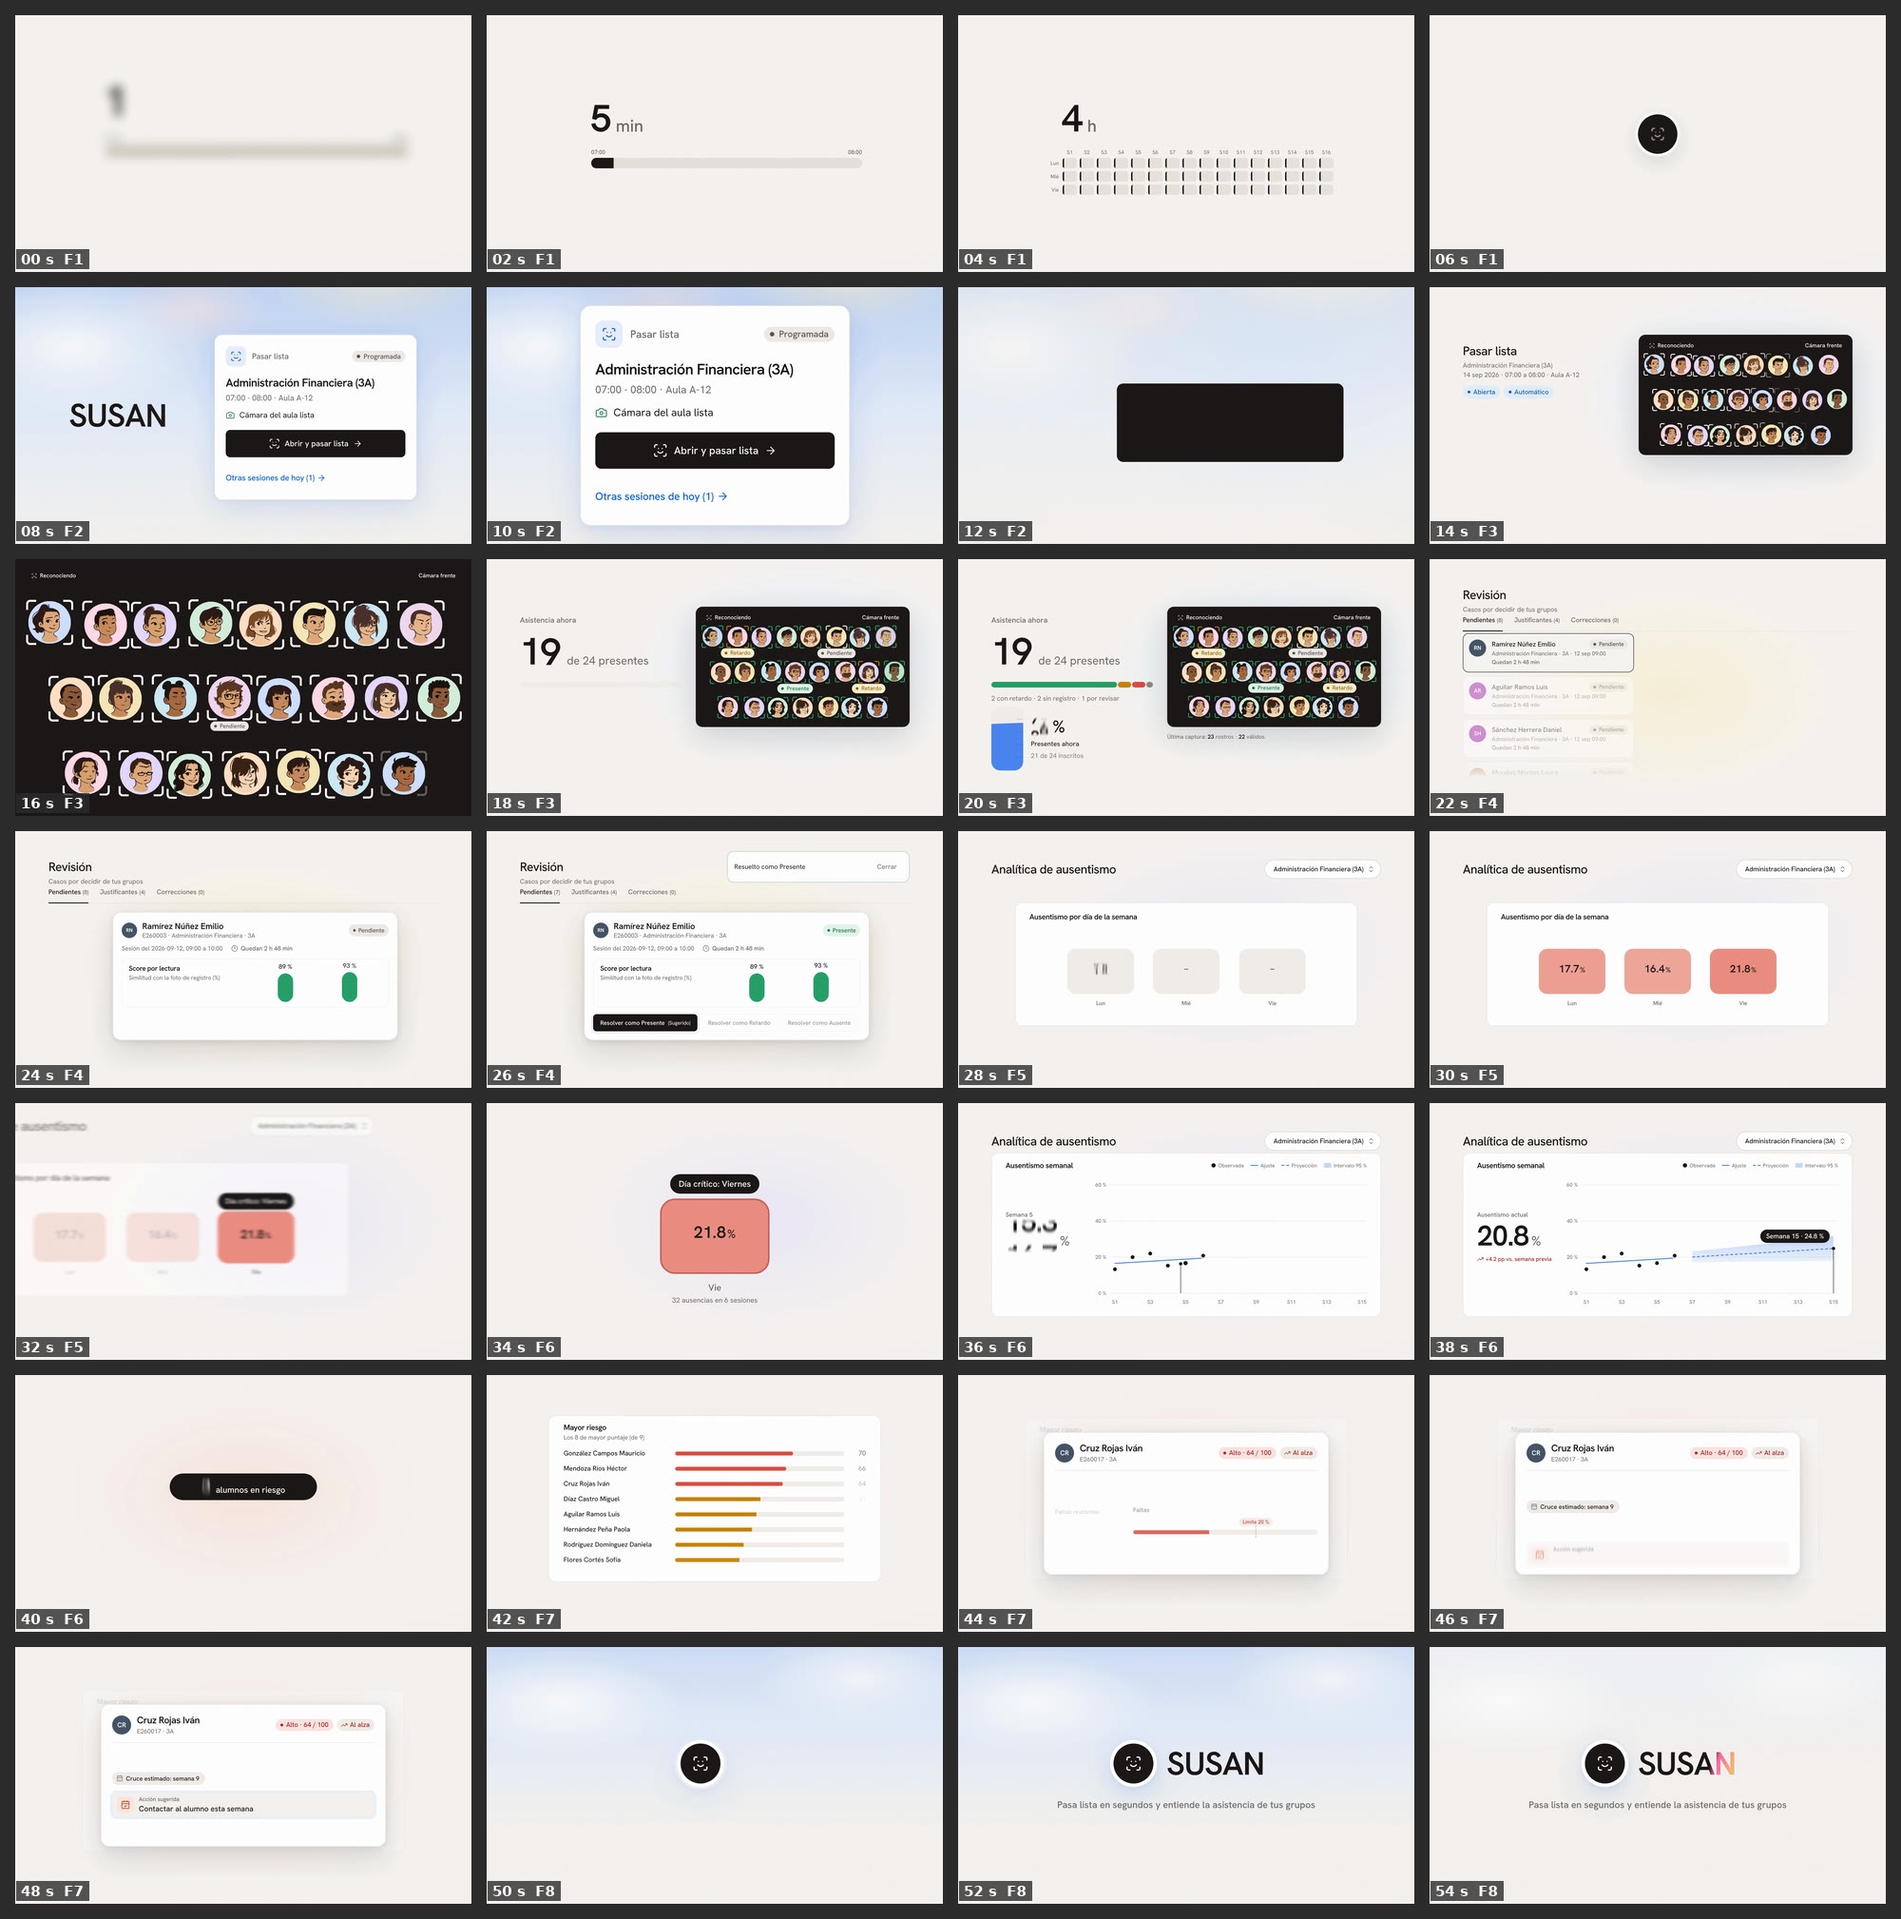
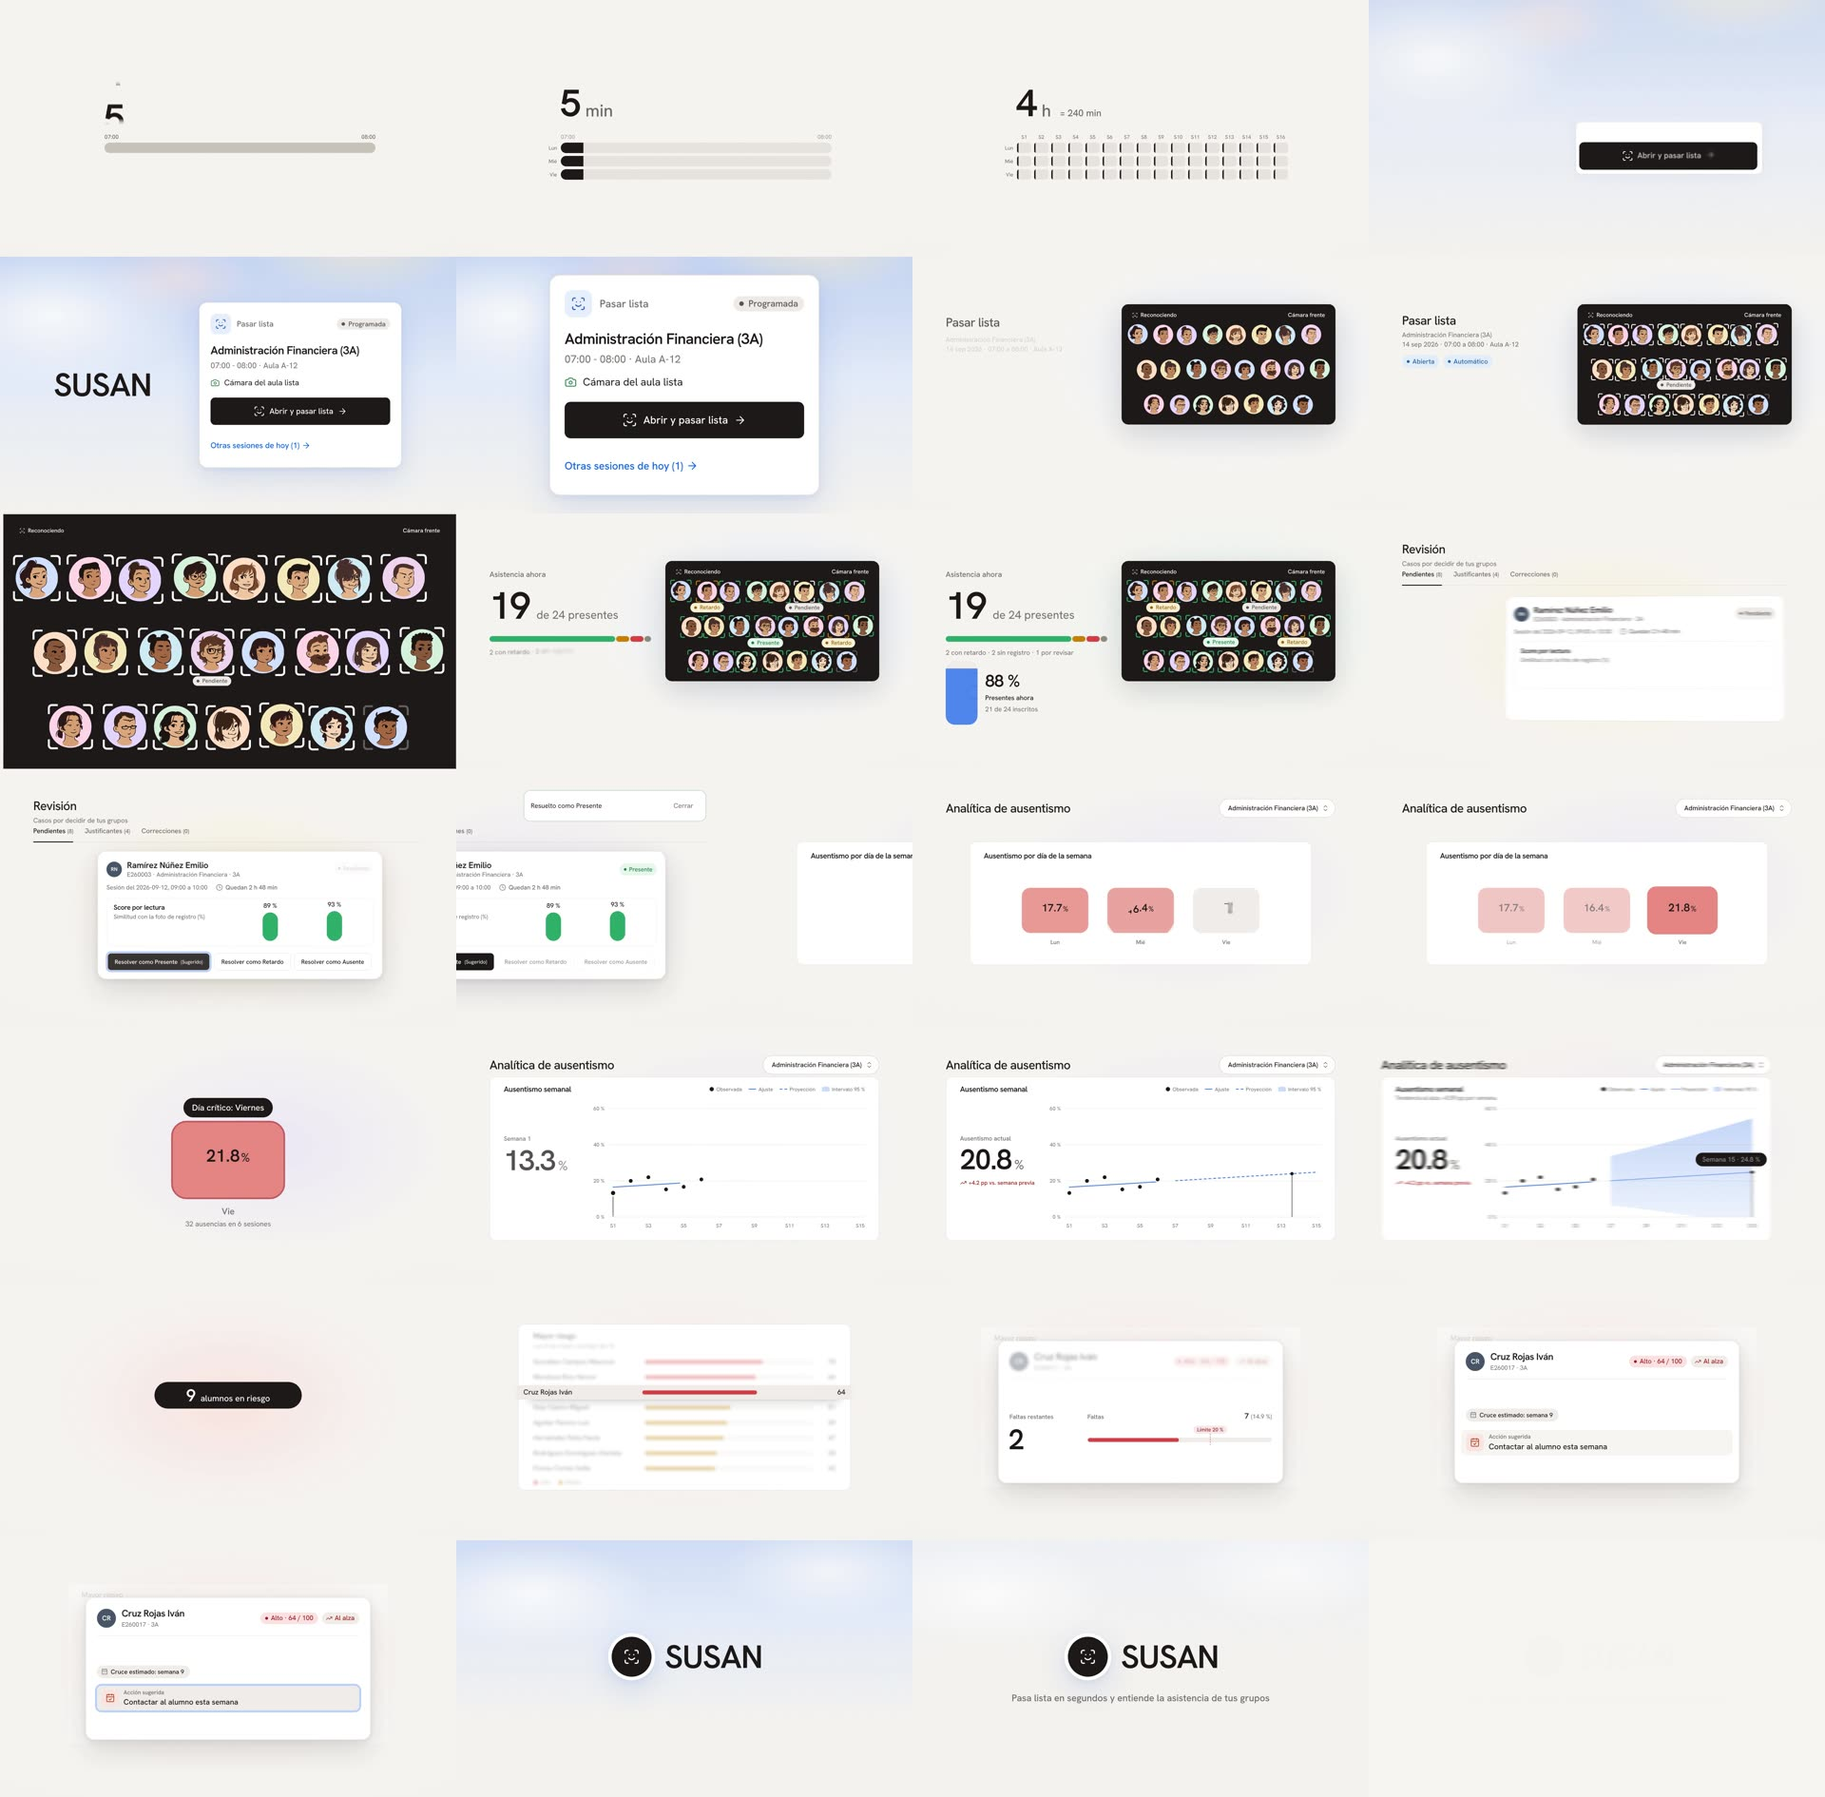
feat(video): v4 con voz sin contador de capturas en la cámara
Claude-Session: https://claude.ai/code/session_01GNm8ZQGo8vSP18qjgTWPYH

diff --git a/video/susan-v4/compositions/frames/s03-camara.html b/video/susan-v4/compositions/frames/s03-camara.html
@@ -80,8 +80,6 @@
 .s03-camara-seg{display:block;height:24px;border-radius:999px;flex:none}
 .s03-camara-detalle{position:absolute;left:140px;top:566px;font-size:28px;font-weight:400;line-height:40px;color:#6F6A65;white-space:nowrap;letter-spacing:0}
 .s03-camara-pal{display:inline-block}
-.s03-camara-ultima{position:absolute;left:880px;top:730px;font-size:24px;font-weight:400;line-height:36px;color:#6F6A65;white-space:nowrap;letter-spacing:0}
-.s03-camara-ultima b{font-weight:600;color:#1E1919}
 /* ---- MedidorLiquido real a E = 1.6: tanque 134 × 269, radio 38, vidrio #F0EDE8, líquido #4A86F0, 5 marcas ---- */
 .s03-camara-tanque{position:absolute;left:140px;top:620px;width:134px;height:269px;border-radius:38px;background:#F0EDE8;overflow:hidden}
 .s03-camara-liquido{position:absolute;inset:0;background:#4A86F0;clip-path:polygon(0 100%,100% 100%,100% 100%,0 100%)}
@@ -111,7 +109,6 @@
       <div id="s03-camara-enc-chips" class="s03-camara-enc-chips"><span class="s03-camara-chip-md">Abierta</span><span class="s03-camara-chip-md">Automático</span></div>
     </div>
     <!-- columna «Asistencia ahora» (assets/sesion-resumen-0-de-24.png): DEBAJO de la vista, que la revela al volver a su caja -->
-    <div id="s03-camara-ultima" class="s03-camara-ultima">Última captura: <b>23</b> rostros · <b>22</b> válidos</div>
     <div id="s03-camara-rotulo" class="s03-camara-rotulo">Asistencia ahora</div>
     <div id="s03-camara-cifra" class="s03-camara-cifra">
       <div id="s03-camara-fila19" class="s03-camara-fila">
@@ -427,7 +424,6 @@
         tl.fromTo(blurTxt, { t: 0 }, { t: 0.40, duration: 0.40, ease: 'none', onUpdate: aplicarBlur, immediateRender: false }, 6.40);
         // 6.85–7.25 s: bajo la cámara, la línea real de la última captura (rostros de la toma, no lecturas por alumno), ya asentado el
         // renglón de detalle y antes del medidor (7.30).
-        tl.fromTo($('ultima'), { y: 16, opacity: 0 }, { y: 0, opacity: 1, duration: 0.40, ease: 'power3.out' }, 6.85);
         /* ---------- Escena 4 (7.3–8.5 s): el medidor sube a 88 % y el halo pasa a verde ---------- */
         tl.fromTo($('tanque'), { y: 24, opacity: 0 }, { y: 0, opacity: 1, duration: 0.40, ease: 'power4.out' }, 7.30);
         tl.fromTo([$('pct'), $('med-et'), $('med-desc')], { y: 24, opacity: 0 }, { y: 0, opacity: 1, duration: 0.40, ease: 'power4.out', stagger: 0.06 }, 7.30);

diff --git a/video/susan-v4/STORYBOARD.md b/video/susan-v4/STORYBOARD.md
@@ -155,7 +155,7 @@ Scene 1 (0.0–1.3s): Corte invisible sobre el marco vacío (handoff_in). Entre 
 
 Scene 2 (1.3–4.9s): «La cámara del aula pasa lista por ti mientras das tu clase». Detección a 1.30 s: esquinas blancas de 4 px con radio 8 se traban en 22 rostros (escalonado 0.03 s, ≤ 0.3 s; todas trabadas a 1.90 s) y en el rostro 23, la visita, quedan al 30 %: sin marco válido y sin decirlo. Entre 1.60 y 1.90 s el rostro más centrado recibe bajo su marco el StatusChip sm «Pendiente» (y 8 → 0 y opacidad, power3.out): el estado de partida que la confirmación va a cambiar. La vista se abre (R3 b): entre 2.45 y 2.95 s la vista de cámara y su sombra crecen desde su caja hasta llenar el cuadro (transform-origin 0 0, x 0 → −880, y 0 → −200, scale 1 → 2.135, que cubre 1921.5 × 1080.3 px sin hilo crema abajo, expo.inOut; radio 28 → 0 por clip-path; la sombra se apaga; desenfoque de la vista ligado a la velocidad, ≤ 4 px en pantalla, solo de 2.61 a 2.79 s; un solo driver puro calcula la apertura y la vuelta); «Reconociendo» y «Cámara frente» no escalan: viajan con sus esquinas (margen 24 → 48 px), y el chip «Pendiente» va anclado bajo su rostro a tamaño nativo, con el mismo ease y tiempo. El encabezado no viaja: la vista va por encima de la columna (z) y, al crecer hacia la izquierda, lo tapa como una cortinilla (≈ 2.67–2.74 s); a 2.95, ya cubierto, `tl.set` autoAlpha 0. Un solo movimiento y una sola superficie con filtro (se lee de 0.95 a ≈ 2.63 s). De 2.95 a 4.40 s la clase llena el cuadro: rostros de 179 px con sus esquinas; entre 3.25 y 3.50 s las esquinas siguen a los rostros (laten una vez, 1 → 1.04 → 1: de 3.25 a 3.56 s, subida de 0.14 s con `power2.out` y vuelta de 0.17 s con `power2.inOut` desde 3.39 s, para que el latido no se sienta como un respingo seco a 2.135x) y entre 3.85 y 4.15 s el icono scan-face del chip «Reconociendo» late una vez (svg-icon-enrichment). Entre 4.40 y 4.90 s la vista vuelve a su caja con el mismo tween al revés, con su desenfoque ≤ 4 px solo de 4.56 a 4.74 s (termina exacta en x=880 y=200, 900 × 506, radio 28, con su sombra) y revela debajo la columna «Asistencia ahora» (Hanken 500, 32 px, #6F6A65), la cifra «0» (Hanken 600, 160 px, tabular-nums) con «de 24 presentes» (48 px gris) en la misma línea base y la pista vacía de la BarraSegmentada (x=140 y=516, 680 × 24 px, #F0EDE8), que entra desde la izquierda (x −60 → 0 y opacidad, power3.out, 4.55–5.00 s). En ningún momento aparece un contador de lecturas, de capturas o de muestras (BRIEF, 2026-10-06).
 
-Scene 3 (4.9–7.3s): «…y cada alumno queda presente». Confirmación sin número, en el hueco de la voz: entre 4.90 y 5.30 s una ola suave nace en el rostro central y se abre hacia los bordes; a su paso un velo verde (#27A06A al 25 %, opacidad 0 → 1 → 0 en 0.3 s por marco) cruza cada marco y sus esquinas cambian de color: verdes #27A06A en 19 rostros, ámbar #C98100 con StatusChip sm «Retardo» en 2, blancas con StatusChip sm «Pendiente» en 1 (cada estado con su etiqueta). Al arrancar la ola, entre 4.90 y 5.00 s, el chip del rostro central pasa de «Pendiente» a «Presente» (#1F7A47 sobre #E3F4EA: el nuevo entra encima por opacidad y el viejo se apaga, sin girar, como el chip de F2). Entre 5.05 y 5.65 s la cifra rueda de 0 a «19» (vertical-spring-ticker, dos columnas con estela vertical solo al girar, expo.out, un tic por columna: decenas asentadas a 5.61 s y unidades a 5.65 s), mientras la voz dice «cada alumno» (ancla «alumno» en 5.45 s); queda quieta desde 5.65 s. Entre 5.65 y 6.45 s, ya asentado el «19» y mientras la voz dice «queda presente» (ancla «presente» en 6.15 s), la BarraSegmentada real se llena por segmentos de izquierda a derecha (stat-bars-and-fills: Presentes 19 #27A06A, Retardos 2 #C98100, Pendientes 1 #8F8A82, Sin registro 2 #DE4D44, separación 4). Entre 6.40 y 6.80 s, ya asentada la barra, entra desde el desenfoque la línea real «2 con retardo · 2 sin registro · 1 por revisar» (Hanken 400, 28 px, #6F6A65, x=140 y=566; el último segmento de la barra ya está al 99.99 % a 6.40 s, así que no se encima). Entre 6.85 y 7.25 s, bajo la cámara, entra «Última captura: 23 rostros · 22 válidos» (24 px gris, x=880 y=730): cuenta los rostros de la toma, no lecturas por alumno. Cada pieza entra sola, una tras otra, con ≈ 0.4 s propios (barra, línea de detalle, «Última captura» y medidor). Ningún tramo quieto llega a 1.0 s (el más largo, de 8.3 a 8.5 s, 0.2 s).
+Scene 3 (4.9–7.3s): «…y cada alumno queda presente». Confirmación sin número, en el hueco de la voz: entre 4.90 y 5.30 s una ola suave nace en el rostro central y se abre hacia los bordes; a su paso un velo verde (#27A06A al 25 %, opacidad 0 → 1 → 0 en 0.3 s por marco) cruza cada marco y sus esquinas cambian de color: verdes #27A06A en 19 rostros, ámbar #C98100 con StatusChip sm «Retardo» en 2, blancas con StatusChip sm «Pendiente» en 1 (cada estado con su etiqueta). Al arrancar la ola, entre 4.90 y 5.00 s, el chip del rostro central pasa de «Pendiente» a «Presente» (#1F7A47 sobre #E3F4EA: el nuevo entra encima por opacidad y el viejo se apaga, sin girar, como el chip de F2). Entre 5.05 y 5.65 s la cifra rueda de 0 a «19» (vertical-spring-ticker, dos columnas con estela vertical solo al girar, expo.out, un tic por columna: decenas asentadas a 5.61 s y unidades a 5.65 s), mientras la voz dice «cada alumno» (ancla «alumno» en 5.45 s); queda quieta desde 5.65 s. Entre 5.65 y 6.45 s, ya asentado el «19» y mientras la voz dice «queda presente» (ancla «presente» en 6.15 s), la BarraSegmentada real se llena por segmentos de izquierda a derecha (stat-bars-and-fills: Presentes 19 #27A06A, Retardos 2 #C98100, Pendientes 1 #8F8A82, Sin registro 2 #DE4D44, separación 4). Entre 6.40 y 6.80 s, ya asentada la barra, entra desde el desenfoque la línea real «2 con retardo · 2 sin registro · 1 por revisar» (Hanken 400, 28 px, #6F6A65, x=140 y=566; el último segmento de la barra ya está al 99.99 % a 6.40 s, así que no se encima). (Retirada por la persona dueña, 2026-10-06: la línea «Última captura: 23 rostros · 22 válidos» ya no aparece; ningún contador de capturas en pantalla.) Cada pieza entra sola, una tras otra, con ≈ 0.4 s propios (barra, línea de detalle y medidor). Ningún tramo quieto llega a 1.0 s (el más largo, de 8.3 a 8.5 s, 0.2 s).
 
 Scene 4 (7.3–8.5s): Después de «presente»: entre 7.30 y 7.85 s el MedidorLiquido real a E = 1.6 (tanque de 134 × 269 px, radio 38, vidrio #F0EDE8, líquido #4A86F0, 5 marcas; borde izquierdo x=140, tope y=620) sube a 88 % con `power3.out` sin rebasarlo (física de `frame.md` §5.7: `nivel` monótono que se asienta en la marca sin sobreimpulso y `desnivel` de la superficie que se apaga solo) mientras «88 %» (Hanken 600, 72 px) rueda a su derecha entre «Presentes ahora» (28 px 500) y «21 de 24 inscritos» (28 px gris). Al asentarse, a 7.85 s, los dos marcos ámbar «Retardo» laten una vez: el medidor cuenta presentes más retardos, como la app. Entre 7.40 y 8.10 s el halo pasa de azul a verde #E5F3EE (confirmación); el desnivel residual del líquido se apaga hacia 8.30 s y todo queda quieto bajo el empuje de salida. Nunca aparecen «Cerrar pase de lista» ni la sesión cerrada. Oro: ninguno (hay chips «Retardo»). 3D: ninguno. Sobreimpulsos: 0.
 

diff --git a/video/susan-v4/plan/ESTADO.md b/video/susan-v4/plan/ESTADO.md
@@ -120,3 +120,7 @@ Entregar el video final 1080p60 MÁS DINÁMICO (ver BRIEF.md, indicación del 20
   sobre el MP4 de 60 fps, miniaturas de 480×270 con `drawtext` y `tile=4x7:padding=16:margin=16`. No uses `-ss` + `fps=2` para
   etiquetar fotogramas: `revision/qa-voz-r1/audio/tile.sh` lo hace y el fotograma etiquetado 18.0 s muestra el de ≈ 18.2 s.
 - Pendiente: mandar `renders/susan-v4-voz.mp4` (o la vista ligera) a la persona dueña y que decida sobre los menores 1, 3, 4 y 5.
+- 16:05 UTC (ronda 3, cierre): se retiró la línea «Última captura: 23 rostros · 22 válidos» de F3 (ningún contador de capturas en pantalla,
+  por la regla de la persona dueña) y se re-renderizó: renders/susan-v4-voz.mp4 (1080p60, 55 s, −15.3 LUFS, pico −1.6 dBTP, 63/63 SFX en
+  ±33 ms) + renders/susan-v4-voz-preview.mp4. Menores que quedan (opcionales): F7 47.3–49.7 s con ~2.4 s casi quietos antes del cierre;
+  F8 paso de cielo sutil; silencio total final de 1.05 s por el sheen del cierre. Pendiente: comentarios de la persona dueña.
